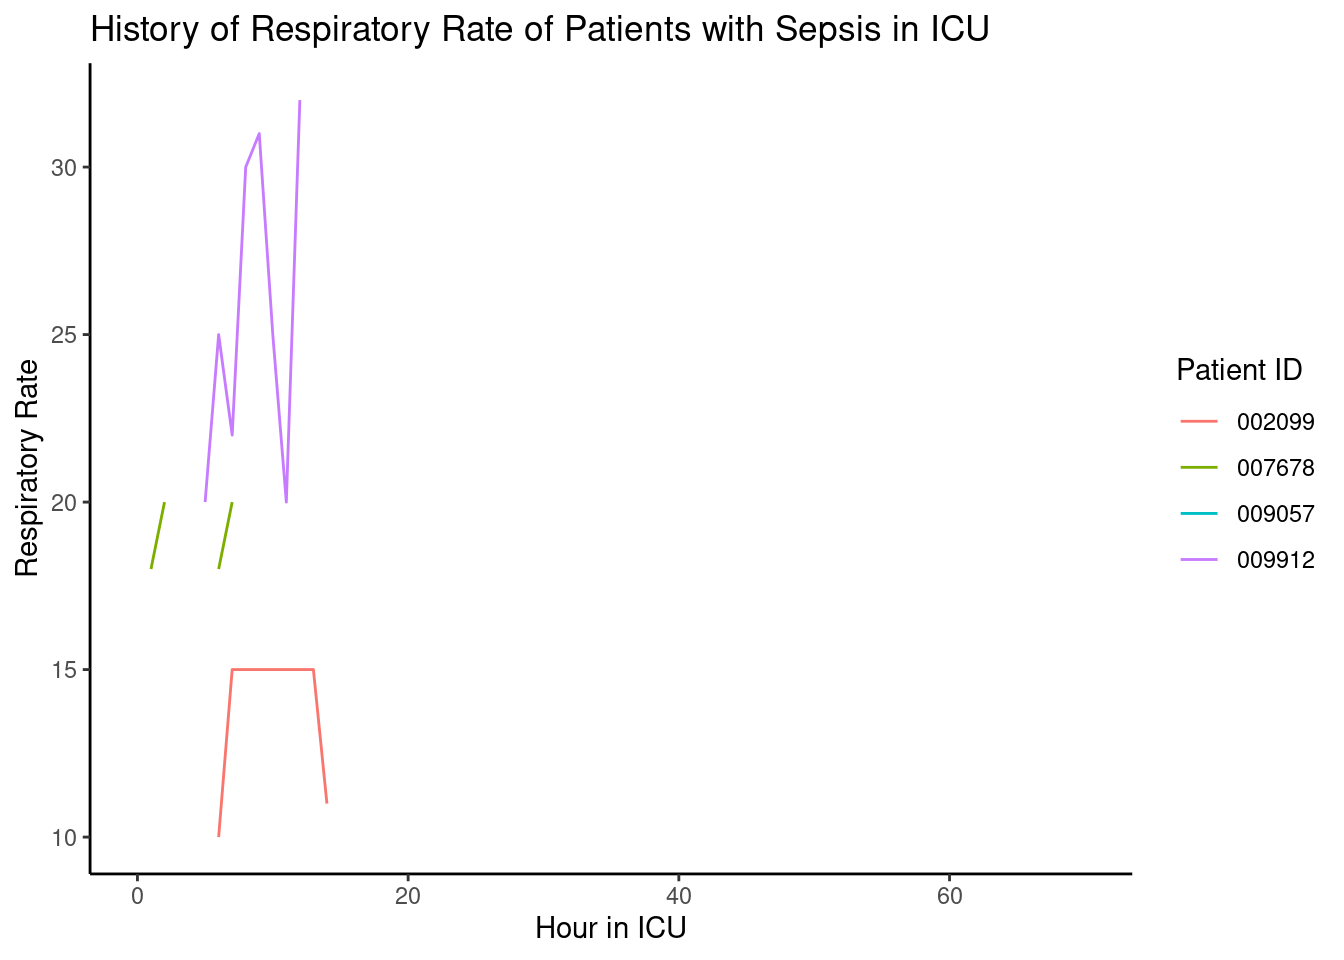
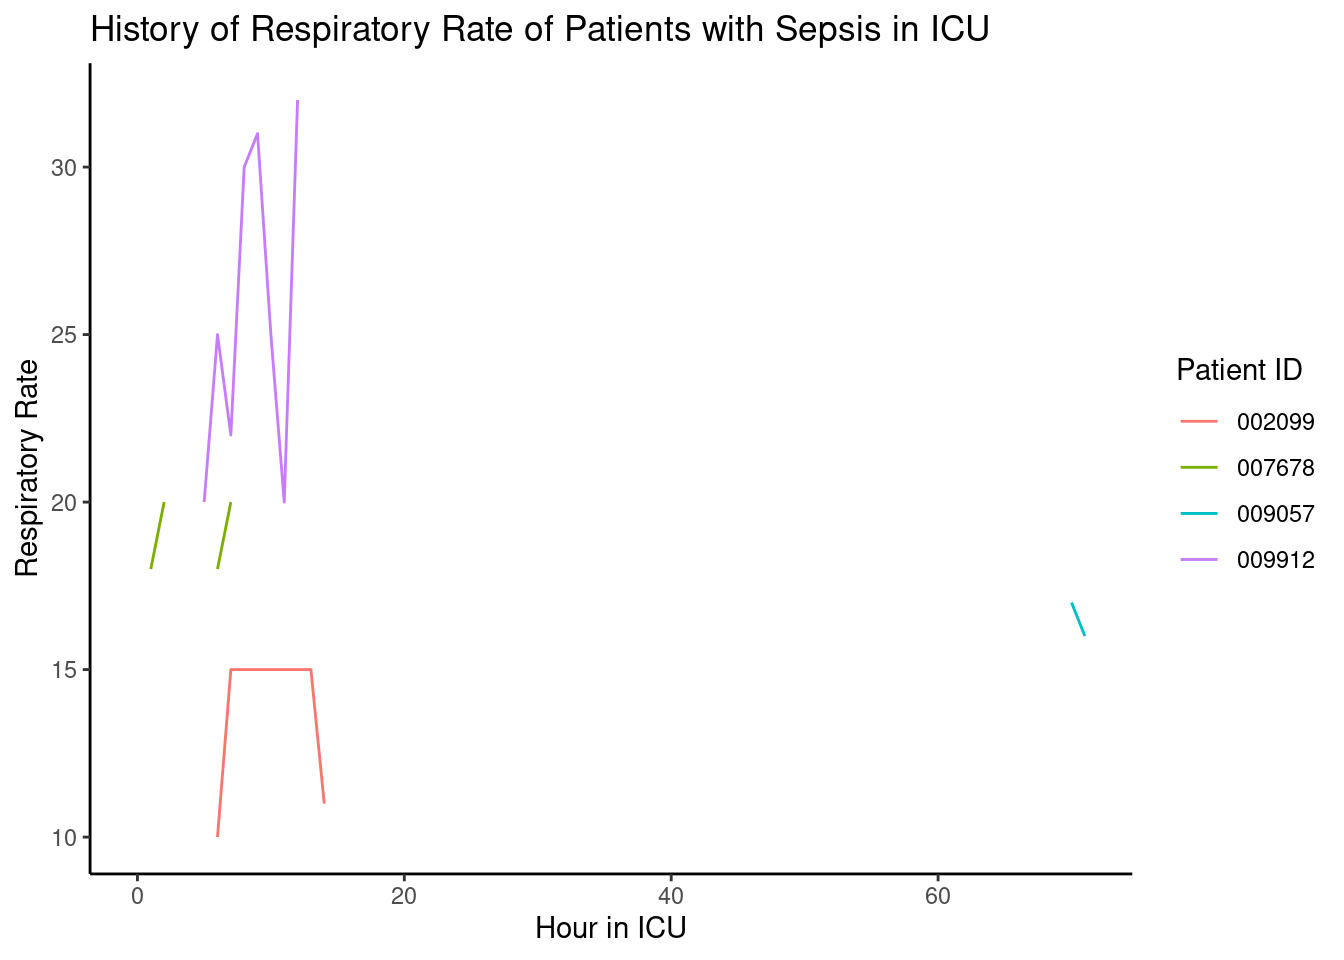
Updated report

diff --git a/HW7.html b/HW7.html
@@ -72,7 +72,7 @@ ul.task-list li input[type="checkbox"] {
 
 <div class="cell">
 <div class="cell-output cell-output-stdout">
-<pre><code>This report was updated at 2023-04-09 09:17:46 CDT</code></pre>
+<pre><code>This report was updated at 2023-04-09 10:17:53 CDT</code></pre>
 </div>
 </div>
 <div class="cell">
@@ -103,9 +103,9 @@ ul.task-list li input[type="checkbox"] {
   </tr>
   <tr>
    <td style="text-align:left;"> 009057 </td>
-   <td style="text-align:right;"> 67 </td>
+   <td style="text-align:right;"> 91 </td>
    <td style="text-align:right;"> NA </td>
-   <td style="text-align:right;"> 17 </td>
+   <td style="text-align:right;"> 16 </td>
   </tr>
   <tr>
    <td style="text-align:left;"> 009912 </td>
@@ -169,9 +169,9 @@ ul.task-list li input[type="checkbox"] {
   </tr>
   <tr>
    <td style="text-align:left;font-weight: bold;color: black !important;background-color: lightgrey !important;border-right:1px solid;"> 000795 </td>
-   <td style="text-align:right;"> 4 </td>
+   <td style="text-align:right;"> -3 </td>
    <td style="text-align:right;"> NA </td>
-   <td style="text-align:right;"> 1 </td>
+   <td style="text-align:right;"> -1 </td>
   </tr>
   <tr>
    <td style="text-align:left;font-weight: bold;color: black !important;background-color: lightgrey !important;border-right:1px solid;"> 001135 </td>
@@ -415,7 +415,7 @@ ul.task-list li input[type="checkbox"] {
   </tr>
   <tr>
    <td style="text-align:left;font-weight: bold;color: black !important;background-color: lightgrey !important;border-right:1px solid;"> 009057 </td>
-   <td style="text-align:right;"> -11 </td>
+   <td style="text-align:right;"> 24 </td>
    <td style="text-align:right;"> NA </td>
    <td style="text-align:right;"> -1 </td>
   </tr>
